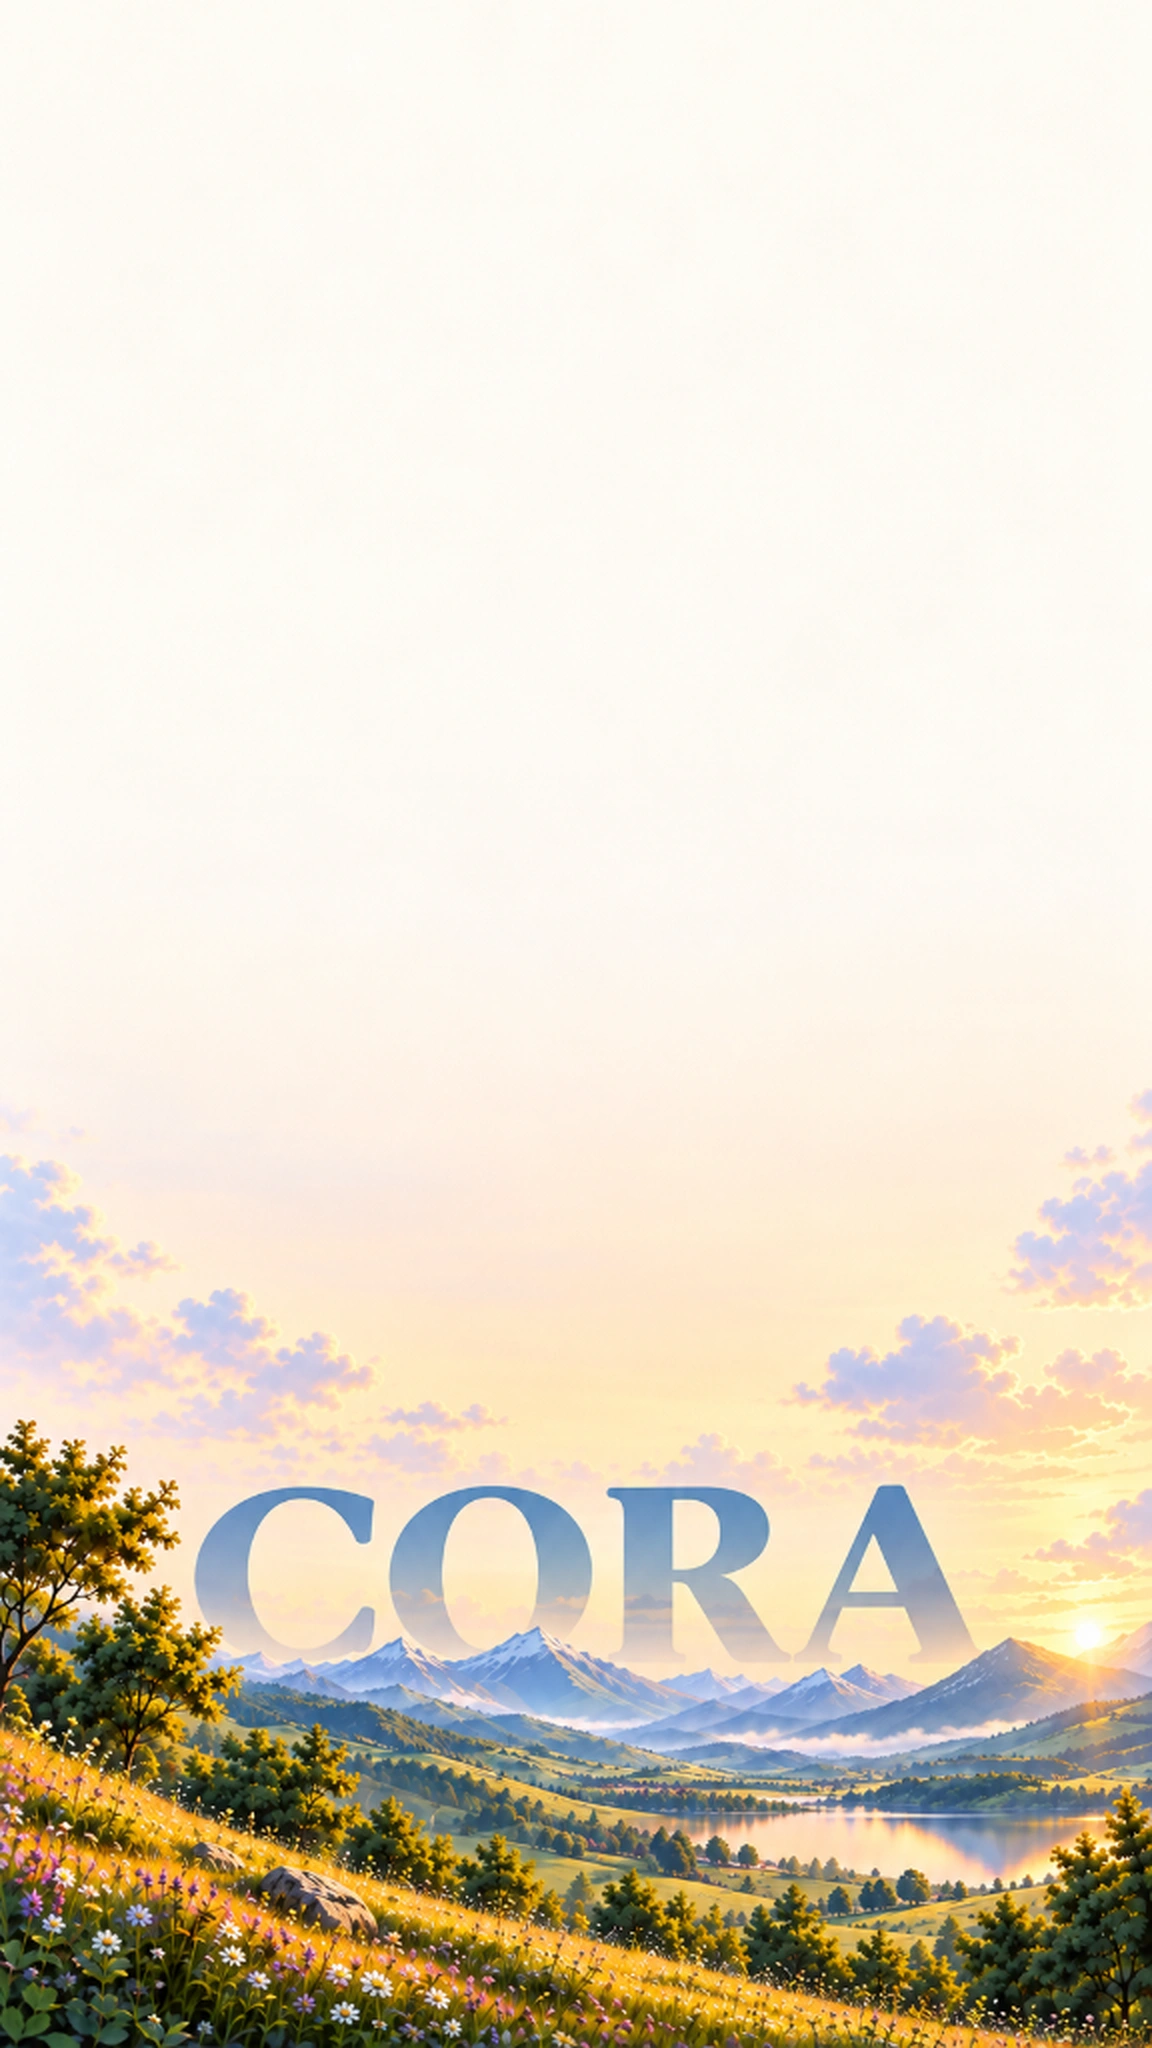
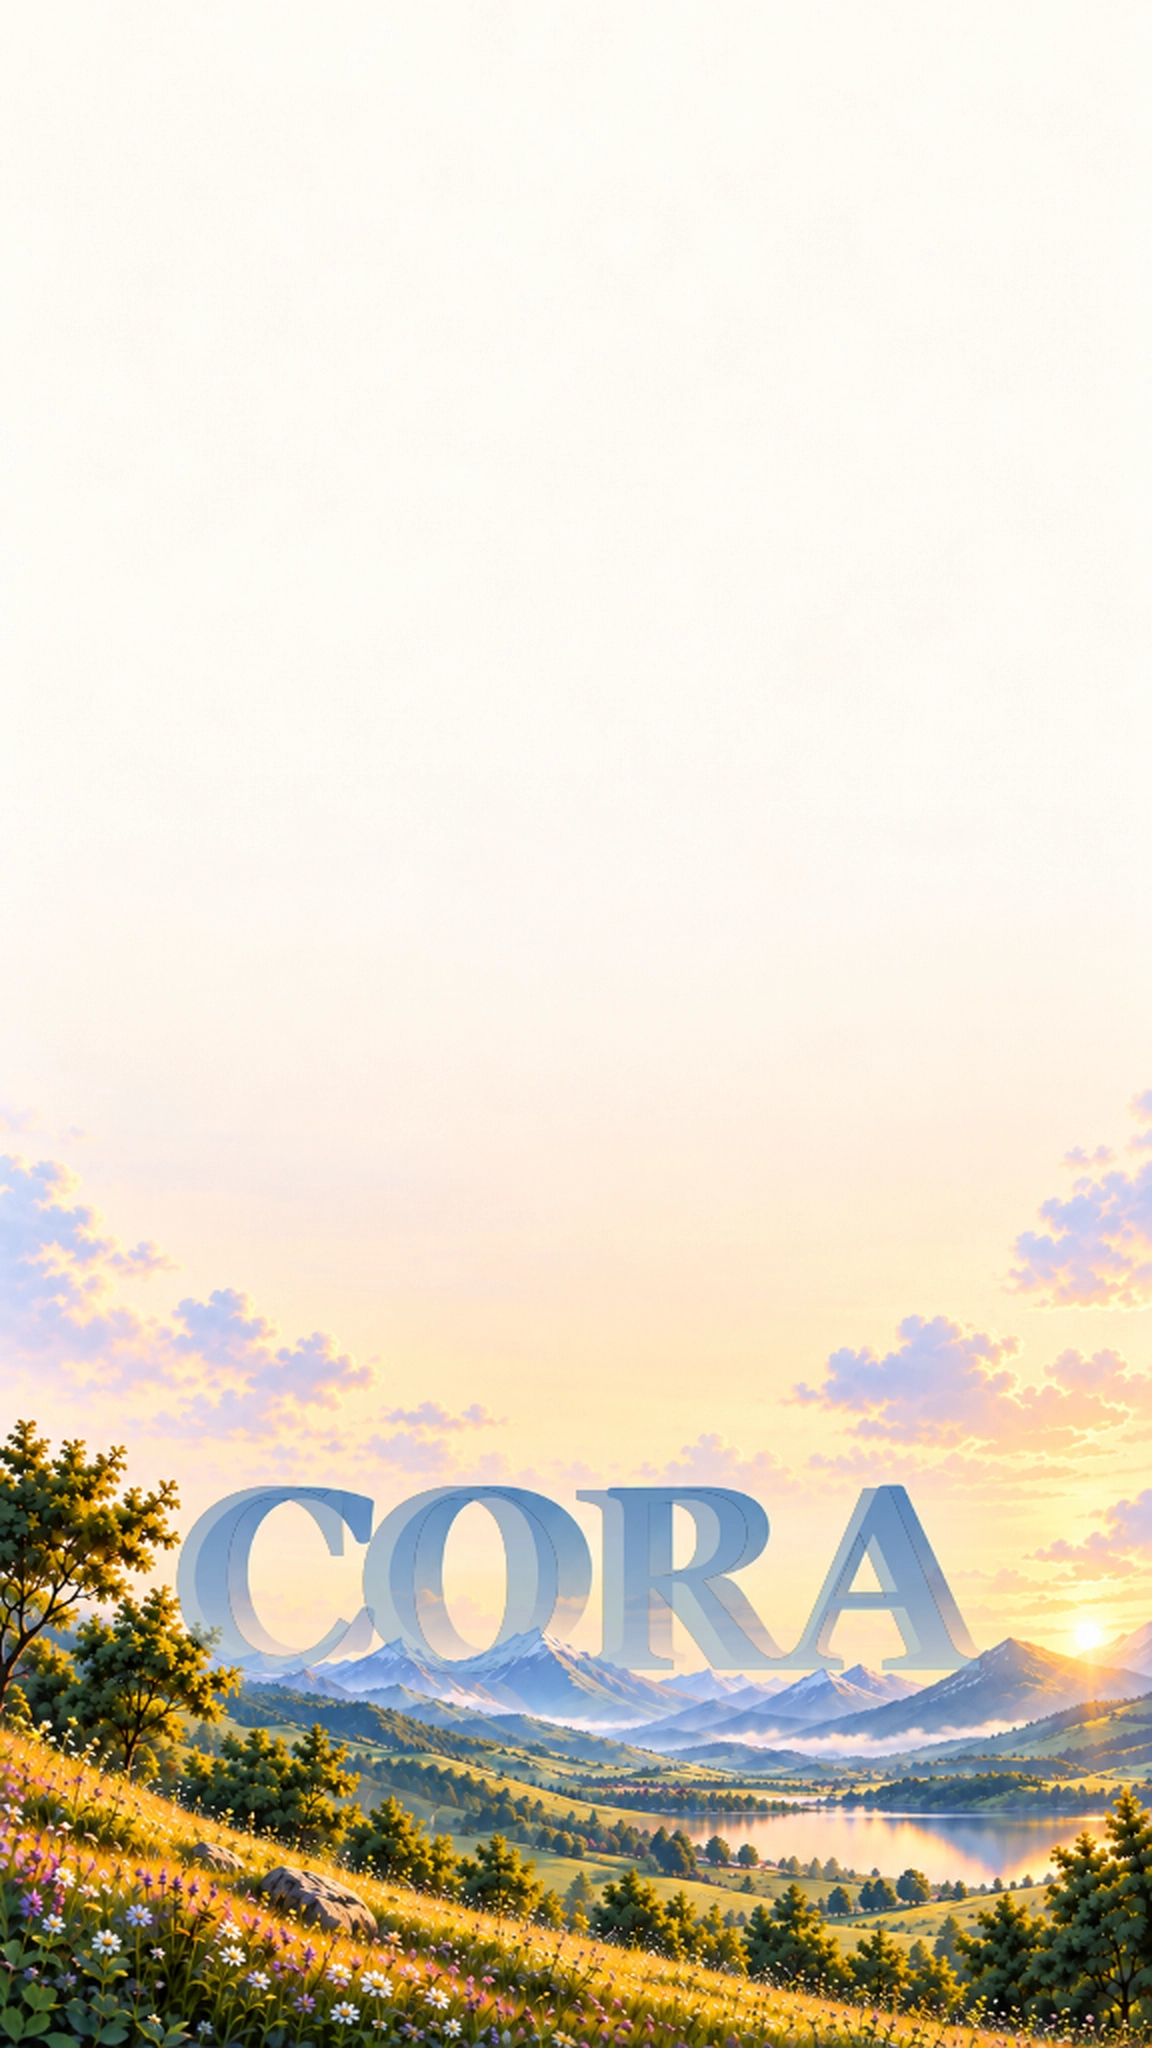
feat(footer): match continuous canvas composition with full-width divider, newsletter, and grounded horizon

Changed region(s): [[0.1562, 0.7188, 0.8438, 0.8438]]

diff --git a/cora-frontend/components/layout/Footer.tsx b/cora-frontend/components/layout/Footer.tsx
@@ -117,16 +117,46 @@ export function Footer() {
   const shouldHideFooterCta = is404 || isLegalPage || isDocsPage || isToolDetailPage;
 
   return (
-    <footer className="relative w-full overflow-hidden pt-16 sm:pt-24 pb-0 bg-gradient-to-b from-transparent via-[#FAF9F5] to-[#FAF9F5]">
+    <footer className="relative w-full overflow-hidden pt-16 sm:pt-20 bg-[#FAF9F5]">
       
-      <div className="relative z-10 w-full max-w-[1280px] mx-auto px-4 sm:px-6 md:px-8">
+      {/* ── Panoramic Landscape Background Layer ── */}
+      <div className="absolute inset-0 pointer-events-none select-none z-0">
+        {/* Mobile Portrait Artwork */}
+        <div className="relative w-full h-full block sm:hidden">
+          <Image
+            src="/images/cora_footer_bg_mobile.webp"
+            alt="Cora Horizon Mobile"
+            fill
+            sizes="100vw"
+            priority={false}
+            className="object-cover object-bottom"
+          />
+        </div>
+
+        {/* Desktop Landscape Artwork */}
+        <div className="relative w-full h-full hidden sm:block">
+          <Image
+            src="/images/cora_footer_bg_desktop.webp"
+            alt="Cora Horizon Desktop"
+            fill
+            sizes="100vw"
+            priority={false}
+            className="object-cover object-bottom"
+          />
+        </div>
+
+        {/* Soft top gradient blend transition into the footer canvas */}
+        <div className="absolute inset-0 bg-gradient-to-b from-[#FAF9F5] via-[#FAF9F5]/30 to-transparent pointer-events-none" />
+      </div>
+
+      <div className="relative z-10 w-full max-w-[1280px] mx-auto px-4 sm:px-6 md:px-8 pb-56 xs:pb-64 sm:pb-76 md:pb-88 lg:pb-96">
         
         {/* ── Top Conversion CTA Banner (Hidden on 404, Docs, Legal & Tool Detail Pages) ── */}
         {!shouldHideFooterCta && (
           <div className="text-center max-w-[760px] mx-auto mb-16 sm:mb-20 px-2 sm:px-0">
             {pathname?.startsWith('/tools') ? (
               <>
-                <h2 className="font-display text-2xl xs:text-3xl sm:text-4xl md:text-[44px] font-semibold text-zinc-950 leading-[1.15] tracking-[-0.03em] mb-3">
+                <h2 className="font-display text-2xl xs:text-3xl sm:text-4xl md:text-[44px] font-bold text-zinc-950 leading-[1.15] tracking-[-0.03em] mb-3">
                   Need these micro-tools in your client portal?
                 </h2>
                 <p className="text-zinc-600 text-xs sm:text-base font-normal leading-relaxed max-w-[540px] mx-auto mb-6 sm:mb-8">
@@ -152,7 +182,7 @@ export function Footer() {
               </>
             ) : (
               <>
-                <h2 className="font-display text-2xl xs:text-3xl sm:text-4xl md:text-[48px] font-semibold text-zinc-950 leading-[1.14] tracking-[-0.03em] mb-3 sm:mb-4">
+                <h2 className="font-display text-2xl xs:text-3xl sm:text-4xl md:text-[48px] font-bold text-zinc-950 leading-[1.12] tracking-[-0.03em] mb-3 sm:mb-4">
                   Ready to simplify your business?
                 </h2>
                 <p className="text-zinc-600 text-sm sm:text-lg font-normal leading-relaxed max-w-[600px] mx-auto mb-6 sm:mb-8">
@@ -215,12 +245,12 @@ export function Footer() {
                     value={newsletterEmail}
                     onChange={(e) => setNewsletterEmail(e.target.value)}
                     placeholder="Enter work email for Operator Brief..."
-                    className="flex-1 min-w-0 bg-white/90 hover:bg-white focus:bg-white border border-zinc-200 focus:border-zinc-950 rounded-xl px-3.5 py-2.5 text-xs text-zinc-900 placeholder:text-zinc-400 focus:outline-none transition-all shadow-2xs"
+                    className="flex-1 min-w-0 bg-white/95 hover:bg-white focus:bg-white border border-zinc-200 focus:border-zinc-950 rounded-xl px-3.5 py-2 text-xs text-zinc-900 placeholder:text-zinc-400 focus:outline-none transition-all shadow-2xs"
                   />
                   <button
                     type="submit"
                     disabled={isSubscribing}
-                    className="shrink-0 bg-zinc-950 hover:bg-zinc-800 disabled:opacity-50 text-white px-4 py-2.5 rounded-xl text-xs font-semibold inline-flex items-center gap-1.5 transition-all cursor-pointer shadow-2xs"
+                    className="shrink-0 bg-zinc-950 hover:bg-zinc-800 disabled:opacity-50 text-white px-4 py-2 rounded-xl text-xs font-semibold inline-flex items-center gap-1.5 transition-all cursor-pointer shadow-2xs"
                   >
                     <span>{isSubscribing ? '...' : 'Join'}</span>
                     <ArrowRight className="w-3.5 h-3.5 text-zinc-400" />
@@ -232,7 +262,7 @@ export function Footer() {
             <div className="flex flex-col gap-2.5 pt-1">
               <a
                 href="mailto:support@heycora.in"
-                className="inline-flex items-center gap-2.5 bg-zinc-200/60 hover:bg-zinc-200 text-zinc-800 px-4 py-2.5 rounded-xl text-xs font-medium transition-all border border-zinc-200/50 shadow-2xs w-fit"
+                className="inline-flex items-center gap-2.5 bg-zinc-200/60 hover:bg-zinc-200 text-zinc-800 px-3.5 py-2 rounded-xl text-xs font-medium transition-all border border-zinc-200/50 shadow-2xs w-fit"
               >
                 <Mail className="w-3.5 h-3.5 text-zinc-600" />
                 <span>support@heycora.in</span>
@@ -252,10 +282,10 @@ export function Footer() {
           <div className="hidden md:grid md:col-span-8 md:grid-cols-4 md:gap-8">
             {FOOTER_SECTIONS.map((section) => (
               <div key={section.id} className="space-y-3">
-                <div className="font-display text-xs font-semibold text-zinc-950 uppercase tracking-wider">
+                <div className="font-display text-xs font-bold text-zinc-950 uppercase tracking-wider">
                   {section.title}
                 </div>
-                <ul className="space-y-2.5 text-xs sm:text-[13px] text-zinc-600 font-normal sm:font-medium">
+                <ul className="space-y-2 text-xs sm:text-[13px] text-zinc-600 font-normal sm:font-medium">
                   {section.links.map((link) => (
                     <li key={link.href}>
                       <Link
@@ -285,7 +315,7 @@ export function Footer() {
                     className="w-full flex items-center justify-between py-1 text-left cursor-pointer group"
                     aria-expanded={isOpen}
                   >
-                    <span className="font-display text-xs font-semibold text-zinc-950 uppercase tracking-wider group-hover:text-zinc-700 transition-colors">
+                    <span className="font-display text-xs font-bold text-zinc-950 uppercase tracking-wider group-hover:text-zinc-700 transition-colors">
                       {section.title}
                     </span>
                     <ChevronDown
@@ -318,7 +348,7 @@ export function Footer() {
         </div>
 
         {/* ── Sub-Footer Divider & Metadata ── */}
-        <div className="pt-6 pb-6 border-t border-zinc-200/80 flex flex-col md:flex-row items-center justify-between gap-6 text-xs text-zinc-500">
+        <div className="pt-6 border-t border-zinc-300/60 flex flex-col md:flex-row items-center justify-between gap-6 text-xs text-zinc-500">
           <div className="text-center md:text-left">
             &copy; {new Date().getFullYear()} Cora. All rights reserved. UDYAM Registered MSME (Govt. of India) &bull; Indian IT Act 2000 compliant.
           </div>
@@ -343,7 +373,7 @@ export function Footer() {
               target="_blank"
               rel="noopener noreferrer"
               aria-label="Instagram"
-              className="w-8 h-8 rounded-xl bg-zinc-200/60 hover:bg-zinc-200 text-zinc-700 hover:text-zinc-950 flex items-center justify-center transition-colors border border-zinc-200/50 shadow-2xs"
+              className="w-8 h-8 rounded-xl bg-zinc-200/50 hover:bg-zinc-200/80 text-zinc-700 hover:text-zinc-950 flex items-center justify-center transition-colors border border-zinc-200/40 shadow-2xs"
             >
               <Instagram className="w-4 h-4" />
             </a>
@@ -353,7 +383,7 @@ export function Footer() {
               target="_blank"
               rel="noopener noreferrer"
               aria-label="LinkedIn"
-              className="w-8 h-8 rounded-xl bg-zinc-200/60 hover:bg-zinc-200 text-zinc-700 hover:text-zinc-950 flex items-center justify-center transition-colors border border-zinc-200/50 shadow-2xs"
+              className="w-8 h-8 rounded-xl bg-zinc-200/50 hover:bg-zinc-200/80 text-zinc-700 hover:text-zinc-950 flex items-center justify-center transition-colors border border-zinc-200/40 shadow-2xs"
             >
               <Linkedin className="w-4 h-4" />
             </a>
@@ -363,7 +393,7 @@ export function Footer() {
               target="_blank"
               rel="noopener noreferrer"
               aria-label="YouTube"
-              className="w-8 h-8 rounded-xl bg-zinc-200/60 hover:bg-zinc-200 text-zinc-700 hover:text-zinc-950 flex items-center justify-center transition-colors border border-zinc-200/50 shadow-2xs"
+              className="w-8 h-8 rounded-xl bg-zinc-200/50 hover:bg-zinc-200/80 text-zinc-700 hover:text-zinc-950 flex items-center justify-center transition-colors border border-zinc-200/40 shadow-2xs"
             >
               <Youtube className="w-4 h-4" />
             </a>
@@ -373,43 +403,13 @@ export function Footer() {
               target="_blank"
               rel="noopener noreferrer"
               aria-label="X (Twitter)"
-              className="w-8 h-8 rounded-xl bg-zinc-200/60 hover:bg-zinc-200 text-zinc-700 hover:text-zinc-950 flex items-center justify-center transition-colors border border-zinc-200/50 shadow-2xs"
+              className="w-8 h-8 rounded-xl bg-zinc-200/50 hover:bg-zinc-200/80 text-zinc-700 hover:text-zinc-950 flex items-center justify-center transition-colors border border-zinc-200/40 shadow-2xs"
             >
               <Twitter className="w-4 h-4" />
             </a>
           </div>
         </div>
 
-      </div>
-
-      {/* ── Grounded Panoramic Horizon Artwork Matching User Reference ── */}
-      <div className="relative w-full h-[180px] xs:h-[220px] sm:h-[300px] md:h-[380px] lg:h-[440px] overflow-hidden select-none pointer-events-none mt-2 sm:mt-4">
-        {/* Mobile Portrait Artwork */}
-        <div className="relative w-full h-full block sm:hidden">
-          <Image
-            src="/images/cora_footer_watermark_mobile.webp"
-            alt="Cora Horizon Mobile"
-            fill
-            sizes="100vw"
-            priority={false}
-            className="object-cover object-[center_70%]"
-          />
-        </div>
-
-        {/* Desktop Landscape Artwork */}
-        <div className="relative w-full h-full hidden sm:block">
-          <Image
-            src="/images/cora_footer_watermark_landscape.webp"
-            alt="Cora Horizon Desktop"
-            fill
-            sizes="100vw"
-            priority={false}
-            className="object-cover object-[center_25%]"
-          />
-        </div>
-
-        {/* Soft top gradient blend transition into the footer canvas */}
-        <div className="absolute top-0 inset-x-0 h-16 bg-gradient-to-b from-[#FAF9F5] via-[#FAF9F5]/40 to-transparent pointer-events-none" />
       </div>
 
     </footer>
